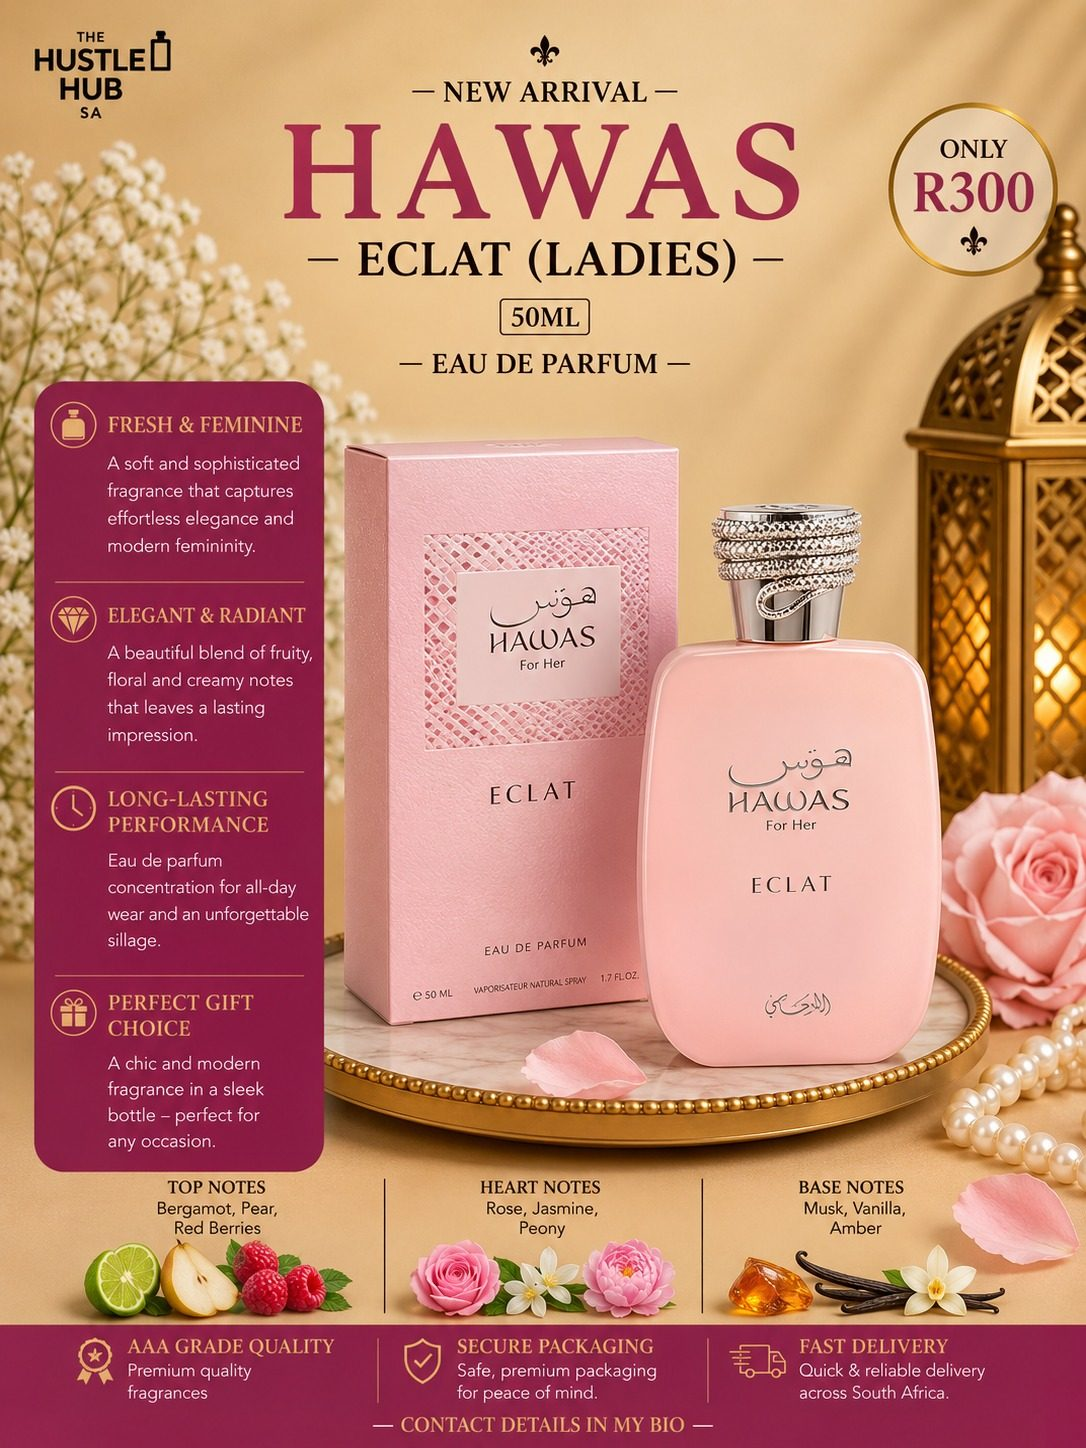
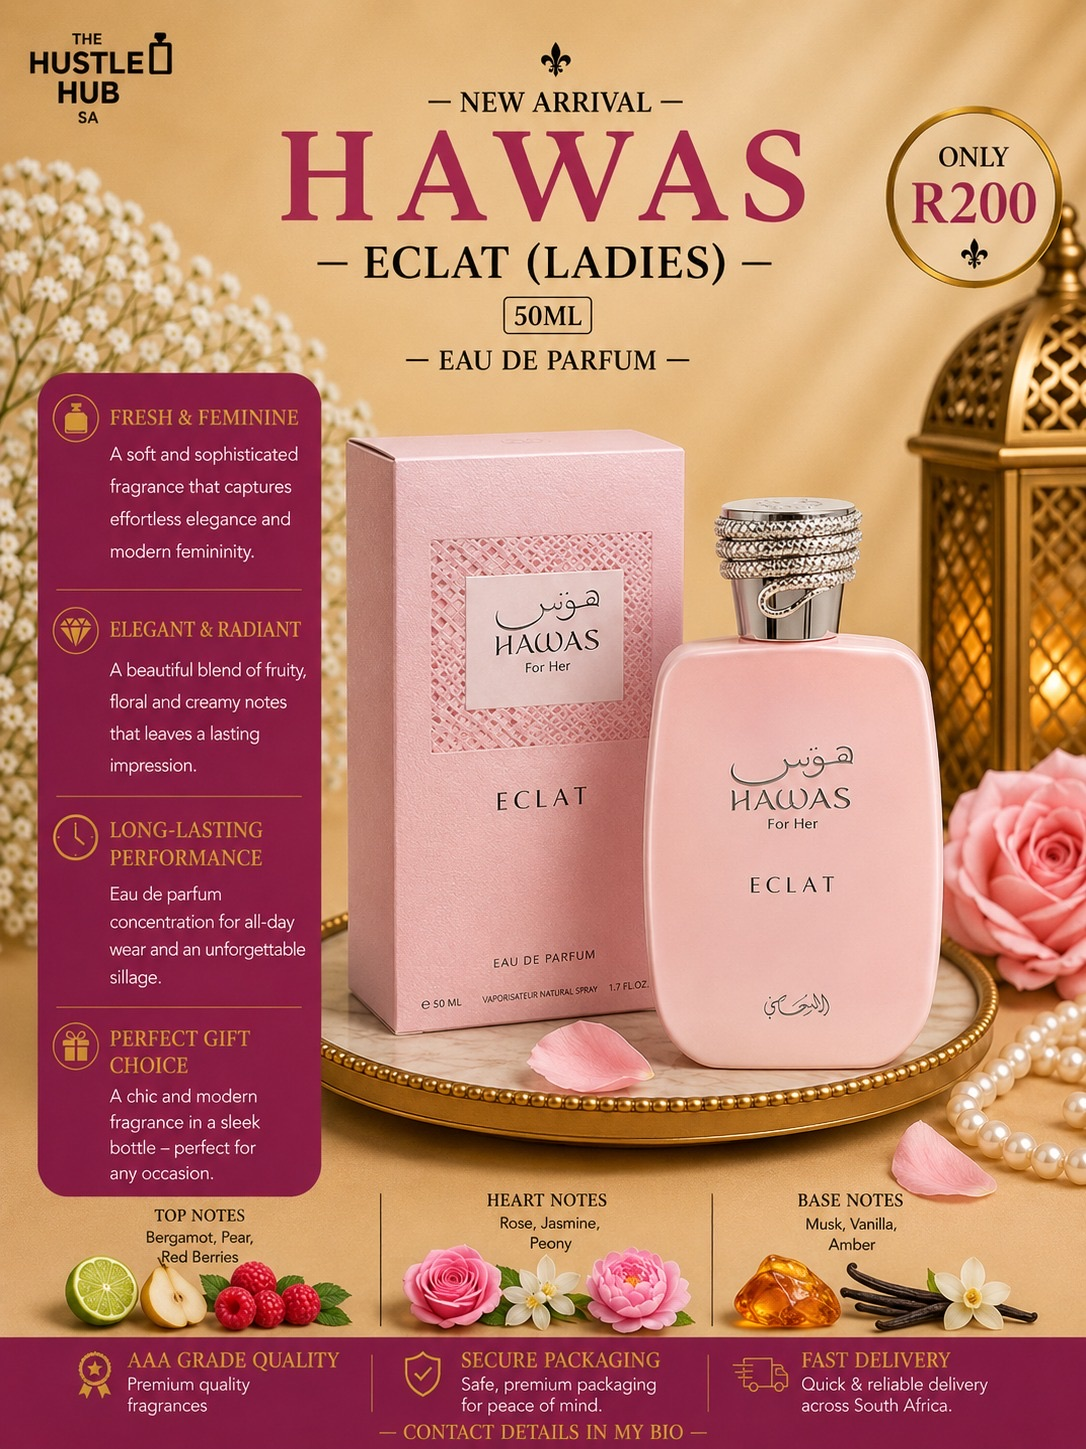
Drop Kayali Eden Juicy Apple and 5 Hawas 50ml scents to R200
Eden Juicy Apple (Kayali 50ml) now matches the rest of the line at R200.
Hawas 50ml: Fire and Malibu (Men), Ice and Tropical (Unisex), Pink and
Eclat (Ladies) drop from R300 to R200. Hawas For Him and Hawas Diva
stay at R300 pending updated cards.

diff --git a/ladies-fragrances.html b/ladies-fragrances.html
@@ -268,7 +268,7 @@ footer{background:var(--bg2);border-top:1px solid var(--border);padding:40px 32p
 <div class="section-inner">
 <div class="section-eyebrow">Kayali · Travel-Friendly Size</div>
 <h2 class="section-title">Kayali 50ml</h2>
-<p class="section-count">5 fragrances · Eau de Parfum · 50ml</p>
+<p class="section-count">5 fragrances · All R200 each · Eau de Parfum · 50ml</p>
 <div class="product-grid">
 
 <div class="product-card"><img src="kayali-50ml-lovefest-burning-cherry-48.jpg" alt="Kayali Lovefest Burning Cherry | 48 50ml" loading="lazy"/><div class="product-info"><div class="badge badge-gold">New Arrival</div><div class="product-name">Lovefest Burning Cherry | 48</div><div class="product-sub">Kayali · Eau de Parfum · 50ml</div><div class="product-footer"><span class="product-price">R200</span><button class="add-btn" onclick="addToCart('Kayali Lovefest Burning Cherry | 48 50ml','R200','kayali-50ml-lovefest-burning-cherry-48.jpg')">+ Add to Order</button></div></div></div>
@@ -279,7 +279,7 @@ footer{background:var(--bg2);border-top:1px solid var(--border);padding:40px 32p
 
 <div class="product-card"><img src="kayali-50ml-oudgasm-smokey-oud-07.jpg" alt="Kayali Oudgasm Smokey Oud | 07 50ml" loading="lazy"/><div class="product-info"><div class="badge badge-gold">New Arrival</div><div class="product-name">Oudgasm Smokey Oud | 07</div><div class="product-sub">Kayali · Eau de Parfum · 50ml</div><div class="product-footer"><span class="product-price">R200</span><button class="add-btn" onclick="addToCart('Kayali Oudgasm Smokey Oud | 07 50ml','R200','kayali-50ml-oudgasm-smokey-oud-07.jpg')">+ Add to Order</button></div></div></div>
 
-<div class="product-card"><img src="kayali-50ml-eden-juicy-apple-01.jpg" alt="Kayali Eden Juicy Apple | 01 50ml" loading="lazy"/><div class="product-info"><div class="badge badge-gold">New Arrival</div><div class="product-name">Eden Juicy Apple | 01</div><div class="product-sub">Kayali · Eau de Parfum · 50ml</div><div class="product-footer"><span class="product-price">R300</span><button class="add-btn" onclick="addToCart('Kayali Eden Juicy Apple | 01 50ml','R300','kayali-50ml-eden-juicy-apple-01.jpg')">+ Add to Order</button></div></div></div>
+<div class="product-card"><img src="kayali-50ml-eden-juicy-apple-01.jpg" alt="Kayali Eden Juicy Apple | 01 50ml" loading="lazy"/><div class="product-info"><div class="badge badge-gold">New Arrival</div><div class="product-name">Eden Juicy Apple | 01</div><div class="product-sub">Kayali · Eau de Parfum · 50ml</div><div class="product-footer"><span class="product-price">R200</span><button class="add-btn" onclick="addToCart('Kayali Eden Juicy Apple | 01 50ml','R200','kayali-50ml-eden-juicy-apple-01.jpg')">+ Add to Order</button></div></div></div>
 
 </div></div></section>
 

diff --git a/dubai-perfumes-unisex.html b/dubai-perfumes-unisex.html
@@ -868,7 +868,7 @@ footer{background:var(--bg2);border-top:1px solid var(--border);padding:40px 32p
   <div class="section-inner">
     <div class="section-eyebrow">Rasasi · Hawas · Travel-Friendly Size</div>
     <h2 class="section-title">Hawas 50ml</h2>
-    <p class="section-count">2 fragrances — R300 each</p>
+    <p class="section-count">2 fragrances — R200 each</p>
     <div class="product-grid">
 
       <div class="product-card">
@@ -878,8 +878,8 @@ footer{background:var(--bg2);border-top:1px solid var(--border);padding:40px 32p
           <div class="product-name">Hawas Ice</div>
           <div class="product-sub">Rasasi · EDP · 50ml · Unisex</div>
           <div class="product-footer">
-            <span class="product-price">R300</span>
-            <button class="add-btn" onclick="addToCart('Hawas Ice — Rasasi 50ml','R300','dubai-unisex-hawas50-ice.jpg')">+ Add to Order</button>
+            <span class="product-price">R200</span>
+            <button class="add-btn" onclick="addToCart('Hawas Ice — Rasasi 50ml','R200','dubai-unisex-hawas50-ice.jpg')">+ Add to Order</button>
           </div>
         </div>
       </div>
@@ -891,8 +891,8 @@ footer{background:var(--bg2);border-top:1px solid var(--border);padding:40px 32p
           <div class="product-name">Hawas Tropical</div>
           <div class="product-sub">Rasasi · EDP · 50ml · Unisex</div>
           <div class="product-footer">
-            <span class="product-price">R300</span>
-            <button class="add-btn" onclick="addToCart('Hawas Tropical — Rasasi 50ml','R300','dubai-unisex-hawas50-tropical.jpg')">+ Add to Order</button>
+            <span class="product-price">R200</span>
+            <button class="add-btn" onclick="addToCart('Hawas Tropical — Rasasi 50ml','R200','dubai-unisex-hawas50-tropical.jpg')">+ Add to Order</button>
           </div>
         </div>
       </div>

diff --git a/dubai-perfumes-ladies.html b/dubai-perfumes-ladies.html
@@ -1231,7 +1231,7 @@ footer{background:var(--bg2);border-top:1px solid var(--border);padding:40px 32p
   <div class="section-inner">
     <div class="section-eyebrow">Rasasi · Hawas · Travel-Friendly Size</div>
     <h2 class="section-title">Hawas 50ml</h2>
-    <p class="section-count">3 fragrances — R300 each</p>
+    <p class="section-count">3 fragrances — R200 to R300</p>
     <div class="product-grid">
 
       <div class="product-card">
@@ -1241,8 +1241,8 @@ footer{background:var(--bg2);border-top:1px solid var(--border);padding:40px 32p
           <div class="product-name">Hawas Pink</div>
           <div class="product-sub">Rasasi · EDP · 50ml</div>
           <div class="product-footer">
-            <span class="product-price">R300</span>
-            <button class="add-btn" onclick="addToCart('Hawas Pink — Rasasi 50ml','R300','dubai-ladies-hawas50-pink.jpg')">+ Add to Order</button>
+            <span class="product-price">R200</span>
+            <button class="add-btn" onclick="addToCart('Hawas Pink — Rasasi 50ml','R200','dubai-ladies-hawas50-pink.jpg')">+ Add to Order</button>
           </div>
         </div>
       </div>
@@ -1267,8 +1267,8 @@ footer{background:var(--bg2);border-top:1px solid var(--border);padding:40px 32p
           <div class="product-name">Hawas Eclat</div>
           <div class="product-sub">Rasasi · EDP · 50ml</div>
           <div class="product-footer">
-            <span class="product-price">R300</span>
-            <button class="add-btn" onclick="addToCart('Hawas Eclat — Rasasi 50ml','R300','dubai-ladies-hawas50-eclat.jpg')">+ Add to Order</button>
+            <span class="product-price">R200</span>
+            <button class="add-btn" onclick="addToCart('Hawas Eclat — Rasasi 50ml','R200','dubai-ladies-hawas50-eclat.jpg')">+ Add to Order</button>
           </div>
         </div>
       </div>

diff --git a/dubai-perfumes-men.html b/dubai-perfumes-men.html
@@ -1042,7 +1042,7 @@ footer{background:var(--bg2);border-top:1px solid var(--border);padding:40px 32p
   <div class="section-inner">
     <div class="section-eyebrow">Rasasi · Hawas · Travel-Friendly Size</div>
     <h2 class="section-title">Hawas 50ml</h2>
-    <p class="section-count">3 fragrances — R300 each</p>
+    <p class="section-count">3 fragrances — R200 to R300</p>
     <div class="product-grid">
 
       <div class="product-card">
@@ -1065,8 +1065,8 @@ footer{background:var(--bg2);border-top:1px solid var(--border);padding:40px 32p
           <div class="product-name">Hawas Fire</div>
           <div class="product-sub">Rasasi · EDP · 50ml</div>
           <div class="product-footer">
-            <span class="product-price">R300</span>
-            <button class="add-btn" onclick="addToCart('Hawas Fire — Rasasi 50ml','R300','dubai-men-hawas50-fire.jpg')">+ Add to Order</button>
+            <span class="product-price">R200</span>
+            <button class="add-btn" onclick="addToCart('Hawas Fire — Rasasi 50ml','R200','dubai-men-hawas50-fire.jpg')">+ Add to Order</button>
           </div>
         </div>
       </div>
@@ -1078,8 +1078,8 @@ footer{background:var(--bg2);border-top:1px solid var(--border);padding:40px 32p
           <div class="product-name">Hawas Malibu</div>
           <div class="product-sub">Rasasi · EDP · 50ml</div>
           <div class="product-footer">
-            <span class="product-price">R300</span>
-            <button class="add-btn" onclick="addToCart('Hawas Malibu — Rasasi 50ml','R300','dubai-men-hawas50-malibu.jpg')">+ Add to Order</button>
+            <span class="product-price">R200</span>
+            <button class="add-btn" onclick="addToCart('Hawas Malibu — Rasasi 50ml','R200','dubai-men-hawas50-malibu.jpg')">+ Add to Order</button>
           </div>
         </div>
       </div>
